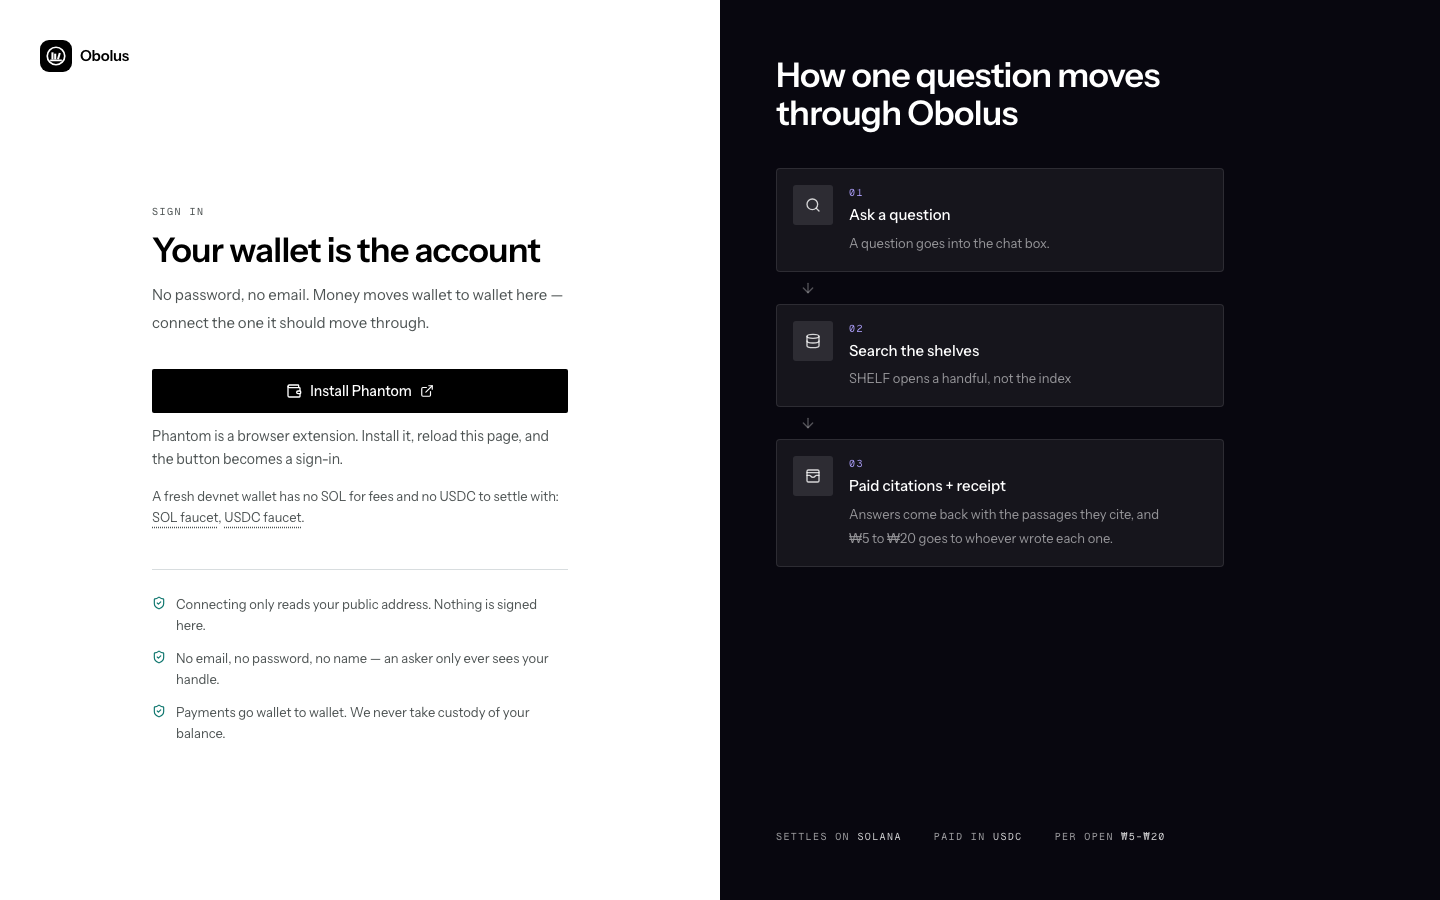
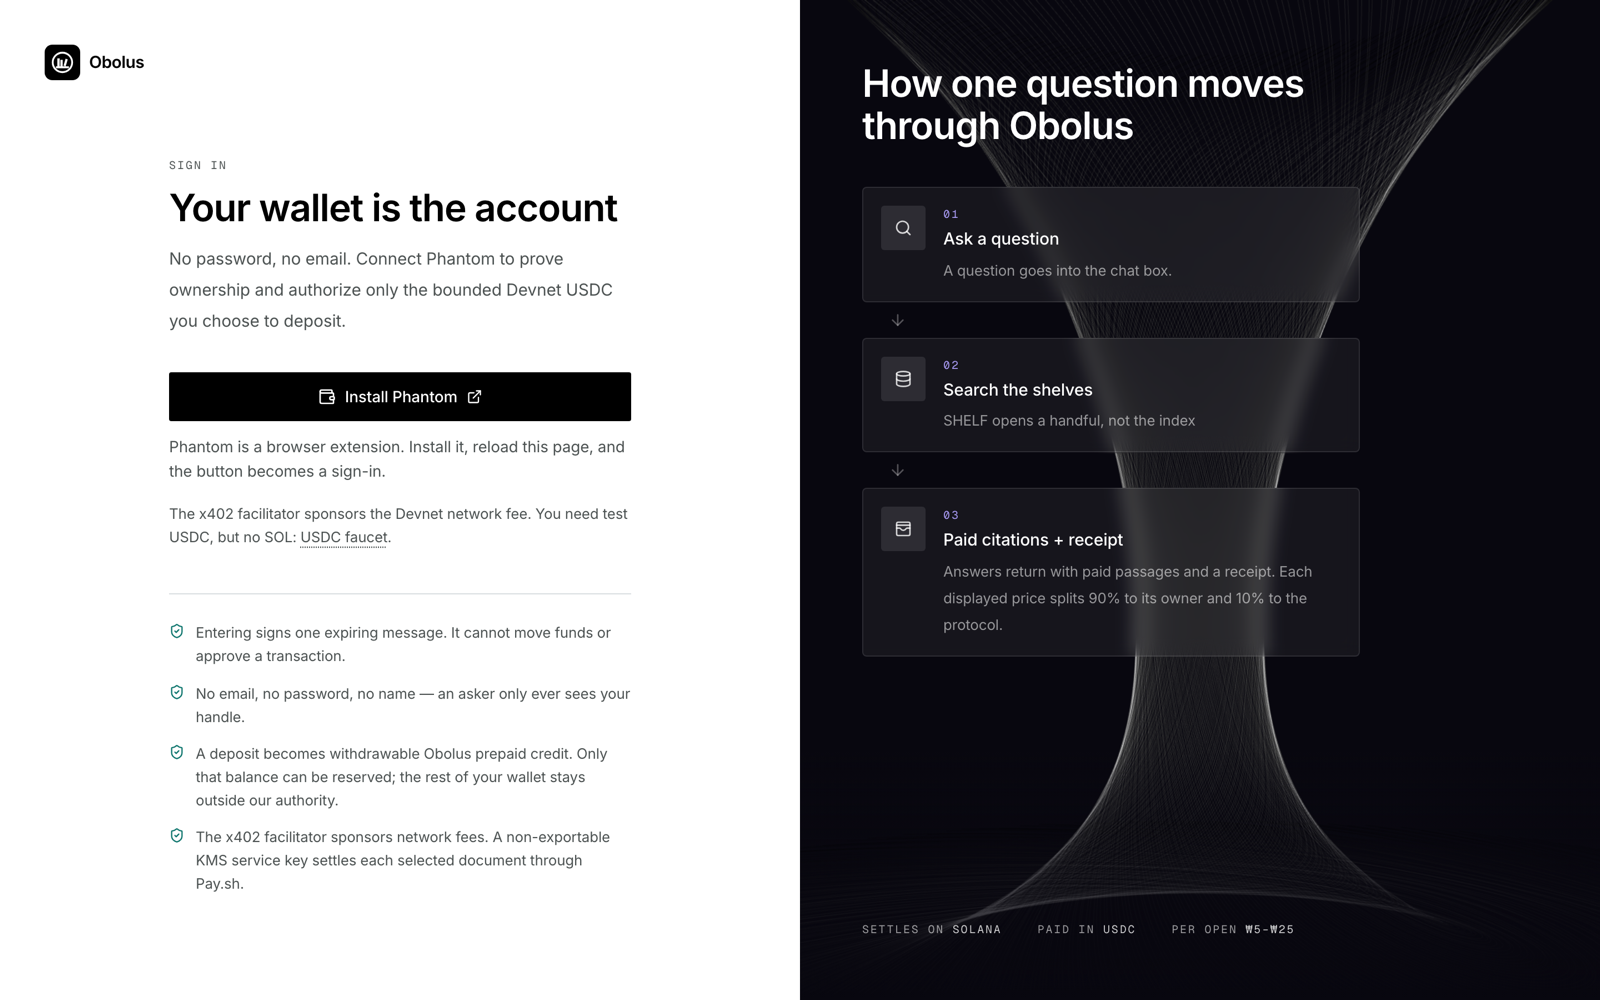
Recapture the README screenshots and describe the USDC build they show
Every product shot in docs/assets was taken against the deployed app at this
revision, so the README now shows what a reader actually opens: USDC balances
in the sidebar, per-answer rewards in USDC on the open-calls board, the live
demand figures on the thin-shelves page, and the standalone top-up control.

Adds two surfaces the README had never covered — the prepaid USDC top-up rail
and the system observatory at /admin — and drops the survey-panel comparison
shot, whose landing section no longer exists.

Also states what is now true of the money: the ledger is USDC atomic end to
end, the legacy KRW columns are history rather than the source of truth, and a
document is still quoted in won because that is what the shelves price in.
Records the gaps that remain visible in this revision rather than leaving the
old claims standing.

diff --git a/README.md b/README.md
@@ -23,7 +23,7 @@
 
 <h3 align="center"><a href="#getting-started"><ins>Getting started</ins></a></h3>
 
-> **Live Devnet deployment (2026-08-11):** the public app runs on
+> **Live Devnet deployment (2026-08-20):** the public app runs on
 > [Cloudflare Pages](https://obolus-9qi.pages.dev), while the API and payment
 > services run separately on Google Cloud. The
 > [finalist deck](https://obolus-9qi.pages.dev/pitch/?mode=final) and its
@@ -31,9 +31,16 @@
 > [bounded Gemini loop](https://obolus-9qi.pages.dev/artifacts/finalist-evidence/autonomy.json), and
 > [Solana Devnet](https://obolus-9qi.pages.dev/artifacts/finalist-evidence/devnet.json)
 > evidence are public. This is a production-shaped Devnet system, not a Solana Mainnet launch.
+>
+> The ledger is now denominated in on-chain USDC atomic units. Balances, the
+> open-calls board, earnings, receipts and the coverage index all read in USDC;
+> the prepaid balance can be topped up on its own over x402, without buying a
+> document first. Landing and chat still quote a document in won, because that
+> is the unit the people on the shelves price in — see
+> [the transaction unit](#the-transaction-unit-and-current-economics).
 
 <p align="center">
-  <img src="docs/assets/hero.png" alt="Obolus asking a question, with the shelf search box on the landing page" width="960" />
+  <img src="docs/assets/hero.png" alt="The Obolus landing page: the SHELF search box over the shelf field, with the sidebar showing a USDC payout balance and the number of open calls" width="960" />
 </p>
 
 ## Features
@@ -50,7 +57,7 @@ Searching and ranking are free. You are billed only for the documents that end u
 
 </td>
 <td width="50%">
-  <img src="docs/assets/feature-thesis.png" alt="A free general model's generic answer beside four paid passages from people who live in Paris" width="100%" />
+  <img src="docs/assets/feature-thesis.png" alt="A free general model's generic answer about Paris beside four paid passages from people who live there, each author paid in USDC on Solana" width="100%" />
 </td>
 </tr>
 <tr>
@@ -60,12 +67,13 @@ Searching and ranking are free. You are billed only for the documents that end u
 
 If nothing on the shelves fits, the answer is not "no results". Name what one answer is worth, and the question goes out as a paid call to people who would know.
 
-- Eleven fields on a vertical rail
-- Filters by pay, fit, and remaining slots
+- Eleven fields, each with its open count
+- Sort by newest, popularity, pay, or fit
+- Reward per answer reads in USDC, and the escrow decrements one answer at a time
 
 </td>
 <td width="50%">
-  <img src="docs/assets/feature-board.png" alt="The open-calls board with a field rail and pay filters" width="100%" />
+  <img src="docs/assets/feature-board.png" alt="The open-calls board sorted by highest pay, showing per-answer rewards in USDC and how many answers each call still needs" width="100%" />
 </td>
 </tr>
 <tr>
@@ -75,11 +83,29 @@ If nothing on the shelves fits, the answer is not "no results". Name what one an
 
 HTTP already had [a reserved status code for this](https://www.rfc-editor.org/rfc/rfc9110.html#name-402-payment-required). The server answers `402` with an exact quote. The buyer reviews one aggregate preview and confirms once; Phantom appears only when the chosen prepaid balance needs a refill, not for every document.
 
-Prices read in won because that is what the people on the shelves think in. USDC is what moves on Solana.
+A document is quoted in won, because that is what the people on the shelves price in. Everything that moves — the deposit, the per-document settlement, the payout, the refund — is USDC on Solana, and every balance in the app reads in USDC.
 
 </td>
 <td width="50%">
-  <img src="docs/assets/feature-settlement.png" alt="An example settlement receipt: four documents opened for a total of ₩38" width="100%" />
+  <img src="docs/assets/feature-settlement.png" alt="The landing section explaining the 402 exchange: billed only for what was opened, one bounded deposit then document-level settlement, 90/10, and no SOL required from the buyer" width="100%" />
+</td>
+</tr>
+<tr>
+<td width="50%" valign="middle">
+
+### Prepaid USDC you can top up on its own
+
+Proving the wallet once opens a revocable prepaid session. From then on, opening documents and funding open calls draw down that balance, and the buyer is never asked to approve a payment per document.
+
+Topping up is now its own rail: establish the prepaid session, ask the gateway for a whole-USDC quote, sign one exact transfer in Phantom, and the credit lands only after the gateway confirms the finalized transfer on two independent RPC providers. The browser never touches the internal deposit route, so it cannot credit itself.
+
+- 1 / 5 / 10 / 25 USDC steps, capped at 1,000 USDC per top-up
+- Idempotent by transaction signature: a retried top-up credits once
+- Unused credit stays withdrawable to the verified wallet
+
+</td>
+<td width="50%">
+  <img src="docs/assets/feature-topup.png" alt="The top-up control on My shelf: a low-balance prompt, 1 / 5 / 10 / 25 USDC steps, the current prepaid balance, and a single Top up button" width="100%" />
 </td>
 </tr>
 <tr>
@@ -100,15 +126,20 @@ USDC but no SOL. The USDC faucet link is available before wallet connection.
 <tr>
 <td width="50%" valign="middle">
 
-### Priced per document, not per panel
+### A live view of the machine, not a diagram of it
 
-What people know has only ever traded whole: a panel study, an annual licence, three hundred responses compressed into one report.
+`/admin` is a running trace, not an architecture drawing. Every node reports its
+own live counter — how many documents are indexed, how many memory entries have
+landed, which PageRank seed and iteration count answered the last query, which
+Gemini model reflected — and the terminal underneath streams the real Cloud Run
+settlement events with their status codes and latencies.
 
-Here the unit is one document, one open, one answer. It stays yours and keeps earning.
+Below the canvas: the memory stream as it fills, abstraction climbing from L0 to
+L1, and the personalized PageRank graph for one specific query.
 
 </td>
 <td width="50%">
-  <img src="docs/assets/feature-panel.png" alt="A row-by-row comparison between a survey panel and Obolus" width="100%" />
+  <img src="docs/assets/feature-observatory.png" alt="The Obolus system observatory: a live canvas from client intake through the Rust policy core, memory abstraction, evidence index, hybrid retrieval and personalized PageRank to x402 settlement, with a live memory stream and PageRank graph underneath" width="100%" />
 </td>
 </tr>
 <tr>
@@ -132,13 +163,13 @@ financial audit rows and public-chain receipts remain.
 
 ### Public coverage for thin shelves
 
-The public index shows aggregate supply and observed search misses without exposing the documents themselves. A raw document count is a coverage signal, not proof that a question can be answered.
+The public index shows aggregate demand and observed search misses without exposing the documents themselves. Reading across one field: how many questions are still open, how many answers they will take, the most anyone pays for one answer, and the money still on the table — that last figure in USDC.
 
-What is public: where questions come back empty, and what somebody has already offered to fill it.
+A raw document count is a coverage signal, not proof that a question can be answered. What is public is where questions come back empty, and what somebody has already offered to fill it.
 
 </td>
 <td width="50%">
-  <img src="docs/assets/feature-coverage.png" alt="The thin-shelves page explaining free discovery, query-specific authority, and the paid boundary" width="100%" />
+  <img src="docs/assets/feature-coverage.png" alt="The thin-shelves page showing live demand: open questions, answers wanted, and the total USDC on the table, broken down by field" width="100%" />
 </td>
 </tr>
 <tr>
@@ -177,7 +208,9 @@ Switch in the sidebar footer. The choice survives a reload.
 | Human document | One quality-checked, versioned final answer created from an accepted open-call response or an opted-in shelf-starter. Warm-up interview responses remain private and are not separately searchable or sold. |
 | Search and open | Search is free and returns only handles, prices, and matching metadata. One paid open delivers the immutable passage version and citation bound to that query and receipt; it does not transfer the contributor's copyright. A later correction or lock does not change the delivered version. |
 | Contributor price | An accepted open-call answer inherits that call's price per answer. For an opted-in shelf-starter, the contributor chooses a future price. The hosted Pay.sh rail currently accepts the fixed test bands ₩5, ₩10, ₩15, ₩25, ₩100, ₩300, ₩500, ₩700, ₩800, and ₩1,000. |
-| Browser approval | The UI shows the selected documents, complete KRW total, and exact Devnet USDC amount once. Clicking **Open with prepaid balance** reserves only that quoted amount. Phantom signs only a buyer-chosen refill when credit is low; unused credit remains withdrawable and Obolus cannot pull more from the wallet. |
+| Ledger denomination | The internal ledger is USDC atomic units (six decimals), serialized as JSON strings so a browser cannot lose precision. Balances, earnings, escrow, receipts and the coverage totals all read in USDC. The legacy `*_krw` columns are kept alongside as nullable history and are no longer the source of truth for money movement. A document's list price is still stored in won, and won is still what the landing page and the ask flow quote. |
+| Browser approval | The UI shows the selected documents, the complete total, and the exact Devnet USDC amount once. Clicking **Open with prepaid balance** reserves only that quoted amount. Phantom signs only a buyer-chosen refill when credit is low; unused credit remains withdrawable and Obolus cannot pull more from the wallet. |
+| Standalone top-up | Prepaid credit can also be added without buying anything. The browser asks the gateway for a whole-USDC quote (1–1,000 USDC), pays it over the same x402 exact scheme, and the gateway posts the verified transfer to an internal, `require_internal` deposit route only after two independent RPC providers agree the transfer to `OPENSHELF_BUNDLE_RECEIVER` is finalized. The deposit is idempotent by transaction signature, so a retry credits once. |
 | Agent approval | The local buyer agent stores one exact intent and requires an interactive, one-time approval for its aggregate atomic amount. The model cannot substitute a URL, recipient, mint, network, or amount. |
 | Conversion | Managed quotes use a fixed test rate of **1 USDC = ₩1,350**, not a live FX feed. Each document is rounded up independently to six-decimal USDC atomic units: `ceil(priceKrw × 1,000,000 / 1,350)`. |
 | Current split | The product UI presents a 90% owner / 10% protocol policy with no checkout surcharge. The hosted Devnet Pay.sh endpoints currently send all but one atomic unit to the owner because their primary split must stay positive. A same-receipt on-chain 90/10 split is therefore still a pre-Mainnet gate, not a claimed commercial take rate. |
@@ -229,8 +262,8 @@ This Devnet transport is not yet the same-receipt on-chain implementation of the
 
 1. Rust searches private documents and returns only safe handles and KRW prices.
 2. It commits the exact handles, content hashes, beneficiary wallets, per-document atomic prices, total, mint, network, and expiry into one job.
-3. It atomically reserves the job cost from verified prepaid credit. If credit is low, an unpaid refill resource returns x402 v2 `402 Payment Required` and Phantom tops up once.
-4. A confirmed refill credits the ledger and funds the job. It does not reveal passages or accrue earnings.
+3. It atomically reserves the job cost from verified prepaid credit. If credit is low, an unpaid refill resource returns x402 v2 `402 Payment Required` and Phantom tops up once. The same credit can be raised ahead of time from **My shelf** through the standalone top-up rail, which is the identical 402 exchange against a whole-USDC quote and no document.
+4. A confirmed refill credits the ledger and funds the job. It does not reveal passages or accrue earnings. Credit is applied only after the gateway independently confirms the finalized transfer, and the browser never reaches the internal deposit route.
 5. The server agent runs Pay.sh/MPP per document, and Rust releases only that exact paid snapshot, idempotently.
 6. Rust reloads only server-proven opened passages, then Gemini on Vertex AI writes a cited synthesis. With no provider configured the UI shows an evidence-only result rather than inventing an answer.
 7. A permanent partial failure restores the exact unpaid atomic remainder to prepaid credit.
@@ -331,6 +364,11 @@ The deployment reuses the shared `ax-apps-db` and `ax-apps-storage` resources un
 
 ### Current deployment and evidence
 
+Verified live on 2026-08-20: `obolus-api` and `obolus-gateway` both serve 100% of
+traffic from the revision built for the current `main`, and the Pages build
+deployed at that hostname is the same revision. The prepaid top-up route answers
+a whole-USDC quote at `POST /x402/api/v1/prepaid/top-ups`.
+
 | Surface | Current deployed entrypoint |
 | --- | --- |
 | App and same-origin API | [`https://obolus-9qi.pages.dev`](https://obolus-9qi.pages.dev) |
@@ -351,7 +389,7 @@ The published [infrastructure](https://obolus-9qi.pages.dev/artifacts/finalist-e
 ## Tech stack
 
 <p>
-  <kbd>React&nbsp;19</kbd> &nbsp; <kbd>TypeScript&nbsp;5.9</kbd> &nbsp; <kbd>Vite&nbsp;8</kbd> &nbsp; <kbd>Tailwind&nbsp;v4</kbd> &nbsp; <kbd>React&nbsp;Router&nbsp;7</kbd> &nbsp; <kbd>three.js</kbd> &nbsp;
+  <kbd>React&nbsp;19</kbd> &nbsp; <kbd>TypeScript&nbsp;5.9</kbd> &nbsp; <kbd>Vite&nbsp;8</kbd> &nbsp; <kbd>Tailwind&nbsp;v4</kbd> &nbsp; <kbd>React&nbsp;Router&nbsp;7</kbd> &nbsp; <kbd>three.js</kbd> &nbsp; <kbd>React&nbsp;Flow</kbd> &nbsp; <kbd>Framer&nbsp;Motion</kbd> &nbsp;
   <kbd>Rust&nbsp;1.89&nbsp;/&nbsp;Axum</kbd> &nbsp; <kbd>Cloud SQL&nbsp;/&nbsp;PostgreSQL</kbd> &nbsp;
   <kbd>x402&nbsp;v2&nbsp;—&nbsp;exact&nbsp;/&nbsp;SVM</kbd> &nbsp; <kbd>Solana&nbsp;Devnet</kbd> &nbsp; <kbd>USDC</kbd> &nbsp; <kbd>Phantom</kbd> &nbsp;
   <kbd>Pay.sh&nbsp;+&nbsp;MPP</kbd> &nbsp; <kbd>GCP&nbsp;KMS</kbd> &nbsp; <kbd>Cloud&nbsp;Run</kbd> &nbsp; <kbd>Gemini&nbsp;on&nbsp;Vertex&nbsp;AI</kbd>
@@ -505,13 +543,15 @@ and the [engineering readiness record](docs/FINALIST-ENGINEERING-READINESS.ko.md
 | `/` | **Ask** | The front door. Ask, and SHELF searches the shelves; a miss becomes an open call. |
 | `/chat/:id` | Chat | One question's thread, including the hit/miss dialogue and the settlement preview. |
 | `/dashboard` | **Open calls** | The answerer's board. Calls arrive with a price per answer; pick one, answer, get paid. |
-| `/memory` | **My shelf** | Everything you have answered. The thicker it gets, the better auto-match sticks. |
-| `/archive` | Receipts | Chats, purchased documents, and transaction links. |
-| `/coverage` | Thin shelves | Where questions come back empty, and what has been offered to fill them. |
+| `/memory` | **My shelf** | Everything you have answered, what it earned, the evidence account, and the prepaid USDC top-up control. The headline figure is total USDC held — prepaid balance plus accrued earnings, added as exact atomic units. It also shows the Phantom wallet's own Devnet USDC balance, read from Solana and labelled as separate from Obolus credit. |
+| `/archive` | My questions | Question history, the documents each one paid for, total spent, and which receipts are on-chain. |
+| `/transactions` | Receipts | Every settlement and payout, with its transaction link. |
+| `/coverage` | Thin shelves | Live demand: open questions per field, answers still wanted, and the USDC still on the table. |
 | `/answer/:orderId` | Answer | One screen, one question, a few warm-ups first. |
 | `/onboarding` | Set-up | Handle, bands, fields, payout wallet, and the three-strike conduct ladder. |
 | `/whitepaper` | The argument | The long-form case for the thing. |
-| `/login` `/terms` `/privacy` `/admin/disputes` `/admin/operations` | | Wallet sign-in, legal, admin review, and an aggregate-only read operations console. |
+| `/admin` | Admin Test | The system observatory: the live request-to-settlement canvas, the memory stream, abstraction growth, personalized PageRank, and the read-only operations tables. `/admin/disputes`, `/admin/operations` and `/admin/data-pipeline` all redirect here. |
+| `/login` `/terms` `/privacy` | | Wallet sign-in and legal. |
 
 ---
 
@@ -529,6 +569,7 @@ and the [engineering readiness record](docs/FINALIST-ENGINEERING-READINESS.ko.md
 | `apps/obulus-mcp/` | Full 29-tool MCP: buyer, contributor, memory, invoice, settlement recovery, earnings, and account operations. |
 | `integrations/antigravity/openshelf/` | The plugin: 24 MCP tools, skills, and the Pay handshake adapter. |
 | `deploy/cloudflare-pages/` + `deploy/cloud-run/` | Edge and GCP deployment contracts, promotion checks, and rollback runbooks. |
+| `artifacts/` + `docs/pitch-final-assets/` | Captured product evidence for the finalist deck, with a manifest stating which shots are usable and which are held back because their state is empty. |
 | `docs/` | Threat model, account linking, Pay.sh deployment, code review, ranking notes. |
 | `architecture.html` | Detailed application, data-model, and ERD view. This README summarizes the deployment; the linked evidence and deploy runbooks hold observed state and operator contracts. |
 
@@ -546,6 +587,13 @@ paid-customer launch.
 - Wallet challenge/SIWX is the launch authentication path. Sessions are server-issued HttpOnly cookies, client-supplied identities are rejected, and email/password remains test-only behind a disabled flag.
 - Deterministic code owns search/ranking, immutable quotes, the database-backed custodial escrow ledger, settlement fences, recovery, payouts, refunds, and AI approval boundaries. In the API's bounded two-call loop, Gemini plans metadata, observes Rust retrieval, and selects one non-spending proposal before user approval; it separately synthesizes only paid evidence afterward. This is not A2A or a multi-agent claim.
 - A hosted Devnet evidence run records real test-USDC funding, owner payout, exact remainder refund, matching finality from two independent RPC providers, and zero duplicate settlement.
+- The ledger is denominated in USDC atomic units end to end. Open calls are funded from the prepaid USDC balance rather than an internal won pot, there is no signup credit, and the standalone top-up route credits only after independently confirmed finality, idempotent by transaction signature.
+
+### Known gaps in this revision
+
+- The landing page and the ask flow still quote a document in won while every balance, board and receipt reads in USDC. That split is a product decision to make, not a rendering bug, but the two conventions are visible on adjacent screens.
+- The landing hero fails closed rather than degrading: `src/components/ui/liquid-shader.tsx` constructs a `THREE.WebGLRenderer` without a guard, and there is no error boundary in `src/`, so a browser with no usable WebGL renders `/` blank. Every other route survives.
+- `scripts/mock-backend.mjs` predates the USDC work, so `npm run demo:record` and anything captured against the mock still show the pre-USDC interface.
 
 ### Deliberately not claimed
 
